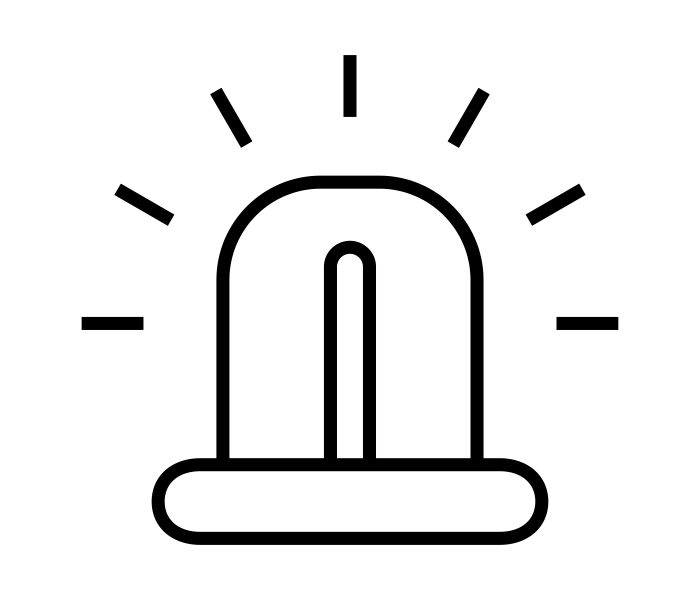
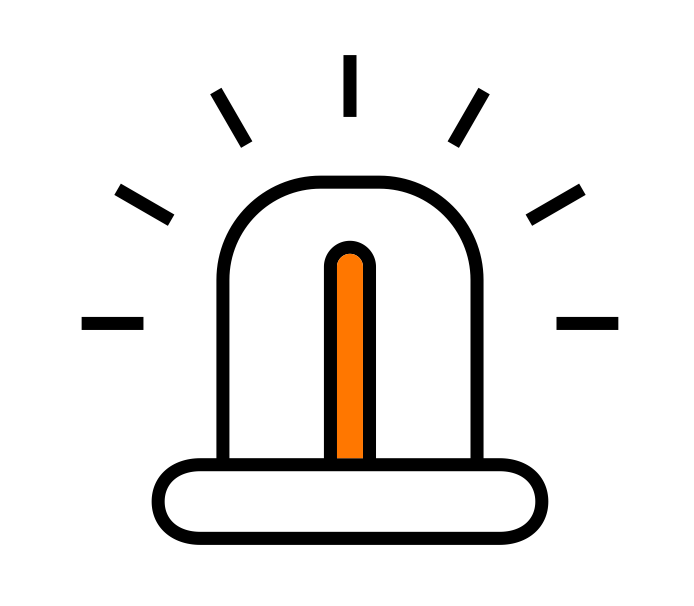
[하리] detail page 생성, 아이콘 이미지 수정

Changed region(s): [[0.4841, 0.4158, 0.5447, 0.7723]]

diff --git a/WebContent/search/caretype_detail.html b/WebContent/search/caretype_detail.html
@@ -17,18 +17,122 @@
     <!-- noto Sans 웹 폰트 적용 -->
     <link rel="stylesheet" type="text/css" href="/WebContent/assets/css/notosans.css" />
 
+    <!-- fontawesome(글리피콘) 적용 -->
+    <script src="https://kit.fontawesome.com/f27ac0bcc1.js" crossorigin="anonymous"></script>
+
+    <!-- css 적용 -->
+    <link rel="stylesheet" type="text/css" href="css/caretype_detail.css" />
+
     <style type="text/css"></style>
   </head>
 
   <body>
     <div class="container">
       <div class="row">
-        <div class="col-xs-12"><!-- xs-12로 모바일 맞춤 --></div>
-        <!-- fin. col-xs-12 -->
-      </div>
-      <!--end row-->
-    </div>
+        <!-- xs-12로 모바일 맞춤 -->
+        <div class="col-xs-12">
+          <!-- caretype -->
+          <div id="caretype" class="d">
+            <!--header-->
+            <div class="ct_header">
+              <a href="http://localhost:8080/ezen-android2020-2/search/sitter_search.html">
+                <i class="fas fa-chevron-left"></i>
+              </a>
+              <h2>돌봄유형 상세 설명</h2>
+            </div>
 
+            <!--header end-->
+            <div class="sitter_ct_wrap">
+              <div>
+                <div class="title_group content_group">
+                  <p>2~10세 정기 돌봄</p>
+                </div>
+
+                <div class="ct_item">
+                  <div class="icon">
+                    <img src="img/noun_School_3628460.png" />
+                  </div>
+                  <div class="ct_text_group">
+                    <p class="main_text">주 5일 등하원</p>
+                    <div>
+                      <p class="sub_text">주 5일, 2~10세 아이가 기관에 가기 전후 하루 3~5시간정도</p>
+                      <p class="sub_text">책임지고 돌봐줍니다. 등하원을 기본으로 등원 전이나 하원 후에</p>
+                      <p class="sub_text">밥챙겨주기, 씻기기, 놀아주기 등의 활동을 합니다.</p>
+                    </div>
+                  </div>
+                </div>
+                <div class="ct_item">
+                  <div class="icon">
+                    <img src="img/noun_Toddler toy_768159.png" />
+                  </div>
+                  <div class="ct_text_group">
+                    <p class="main_text">놀이/학습시터</p>
+                    <div>
+                      <p class="sub_text">시터님의 특기를 활용해 2~10세의 아이와 놀이 및</p>
+                      <p class="sub_text">학습적인 시간을 보내며 돌봐줍니다.</p>
+                      <p class="sub_text">주 1~4회 정기적, 혹은 단기로도 활동합니다.</p>
+                    </div>
+                  </div>
+                </div>
+              </div>
+              <div>
+                <div class="title_group content_group">
+                  <p>신생아/영아 정기 돌봄</p>
+                </div>
+                <div class="ct_item">
+                  <div class="icon">
+                    <img src="img/noun_mom and daughter_3585284.png" />
+                  </div>
+                  <div class="ct_text_group">
+                    <p class="main_text">풀타임</p>
+                    <div>
+                      <p class="sub_text">0~24개월 아이를 먹이고, 재우고, 놀아주며 돌봐줍니다.</p>
+                      <p class="sub_text">주 5일, 하루 8~10시간 동안 책임지고 돌보며</p>
+                      <p class="sub_text">최근에 신생아/영아를 돌본 경험이 있고</p>
+                    </div>
+                    <p class="sub_text">아이 관련 가사활동도 가능합니다.</p>
+                  </div>
+                </div>
+                <div class="ct_item">
+                  <div class="icon">
+                    <img src="img/noun_help_2402270.png" />
+                  </div>
+                  <div class="ct_text_group">
+                    <p class="main_text">보조</p>
+                    <div>
+                      <p class="sub_text">0~24개월 아이를 보호자와 함께 또는 혼자 돌봅니다.</p>
+                      <p class="sub_text">최근에 신생아/영아를 돌본 경험이 있으며</p>
+                      <p class="sub_text">주 1~4회 정기적, 혹은 단기로도 활동합니다.</p>
+                    </div>
+                  </div>
+                </div>
+              </div>
+              <div>
+                <div class="title_group content_group">
+                  <p>긴급/단기 돌봄</p>
+                </div>
+
+                <div class="ct_item">
+                  <div class="icon siren">
+                    <img src="img/noun_Siren_3116161.png" />
+                  </div>
+                  <div class="ct_text_group">
+                    <p class="main_text">긴급/단기</p>
+                    <div>
+                      <p class="sub_text">1~2회 또는 짧은 기간 동안만 아이를 돌봐줍니다.</p>
+                      <p class="sub_text">시터 프로필에 명시된 돌봄 가능한 아이 연령과</p>
+                      <p class="sub_text">활동 및 스케줄에 맞춰 활동합니다.</p>
+                    </div>
+                  </div>
+                </div>
+              </div>
+            </div>
+          </div>
+          <!-- caretype end -->
+        </div>
+        <!--end row-->
+      </div>
+    </div>
     <!-- Javascript -->
     <script src="/WebContent/assets/js/jquery.min.js"></script>
     <!-- jquery 파일명 수정 -->

diff --git a/WebContent/search/css/caretype_detail.css b/WebContent/search/css/caretype_detail.css
@@ -81,7 +81,7 @@ img {
   margin: 0px auto;
   max-width: 375px;
   width: 100%;
-  padding: 0px 40px;
+  padding-bottom: 110px;
 }
 
 .title_group {
@@ -126,7 +126,7 @@ img {
   display: flex;
   justify-content: center;
   align-items: center;
-  margin: 50px auto 0px auto;
+  margin: 60px auto 0px auto;
   max-width: 217px;
   width: 100%;
   height: 35px;
@@ -158,6 +158,7 @@ img {
   flex-direction: column;
   width: 100%;
   padding: 0px;
+  margin-top: 33px;
 }
 
 .icon {
@@ -165,16 +166,12 @@ img {
   justify-content: center;
   align-items: center;
   max-width: 250px;
-  width: 100px;
-  height: 100px;
-  background: rgb(246, 246, 246);
-  box-shadow: rgba(0, 0, 0, 0.25) 0px 2px 4px;
   border-radius: 20px;
 }
 
 .ct_text_group {
-  margin-top: 15px;
   text-align: center;
+  margin-top: 10px;
 }
 
 .main_text {
@@ -200,6 +197,10 @@ img {
   line-height: 18px;
 }
 
+.sub_text:first-child {
+  margin-top: 6px;
+}
+
 .siren {
   width: 100%;
 }
@@ -223,8 +224,4 @@ img {
   line-height: 26px;
   letter-spacing: -0.2px;
   color: rgb(136, 136, 136);
-}
-
-.selected_icon {
-  border: 2px solid rgb(255, 112, 0) !important;
 }

diff --git a/WebContent/search/caretype_sitter.html b/WebContent/search/caretype_sitter.html
@@ -31,6 +31,7 @@
       <div class="row">
         <!-- xs-12로 모바일 맞춤 -->
         <div class="col-xs-12">
+          <!-- caretype -->
           <div id="caretype" class="d">
             <!--header-->
             <div class="ct_header">
@@ -117,7 +118,7 @@
             </div>
             <button type="button" class="all_btn">모든 돌봄유형 보기</button>
           </div>
-          <!-- activity type modal end -->
+          <!-- caretype end -->
         </div>
         <!--end row-->
       </div>
@@ -126,5 +127,13 @@
     <script src="/WebContent/assets/js/jquery.min.js"></script>
     <!-- jquery 파일명 수정 -->
     <script src="/WebContent/assets/js/bootstrap.min.js"></script>
+    <script type="text/javascript">
+      $(function () {
+        $(".icon").click(function (e) {
+          $(this).addClass("selected_icon");
+          location.href = "http://localhost:8080/ezen-android2020-2/search/sitter_search.html";
+        });
+      });
+    </script>
   </body>
 </html>

diff --git a/WebContent/search/sitter_search.html b/WebContent/search/sitter_search.html
@@ -896,7 +896,7 @@
         });
 
 
-        //활동 버튼 반영 1221 하리 - 수정중
+        //활동 버튼 반영 1221 하리
         $('#act_apply').click(function (e) {
           e.preventDefault();
           $("#activity_type_modal").modal("hide");
